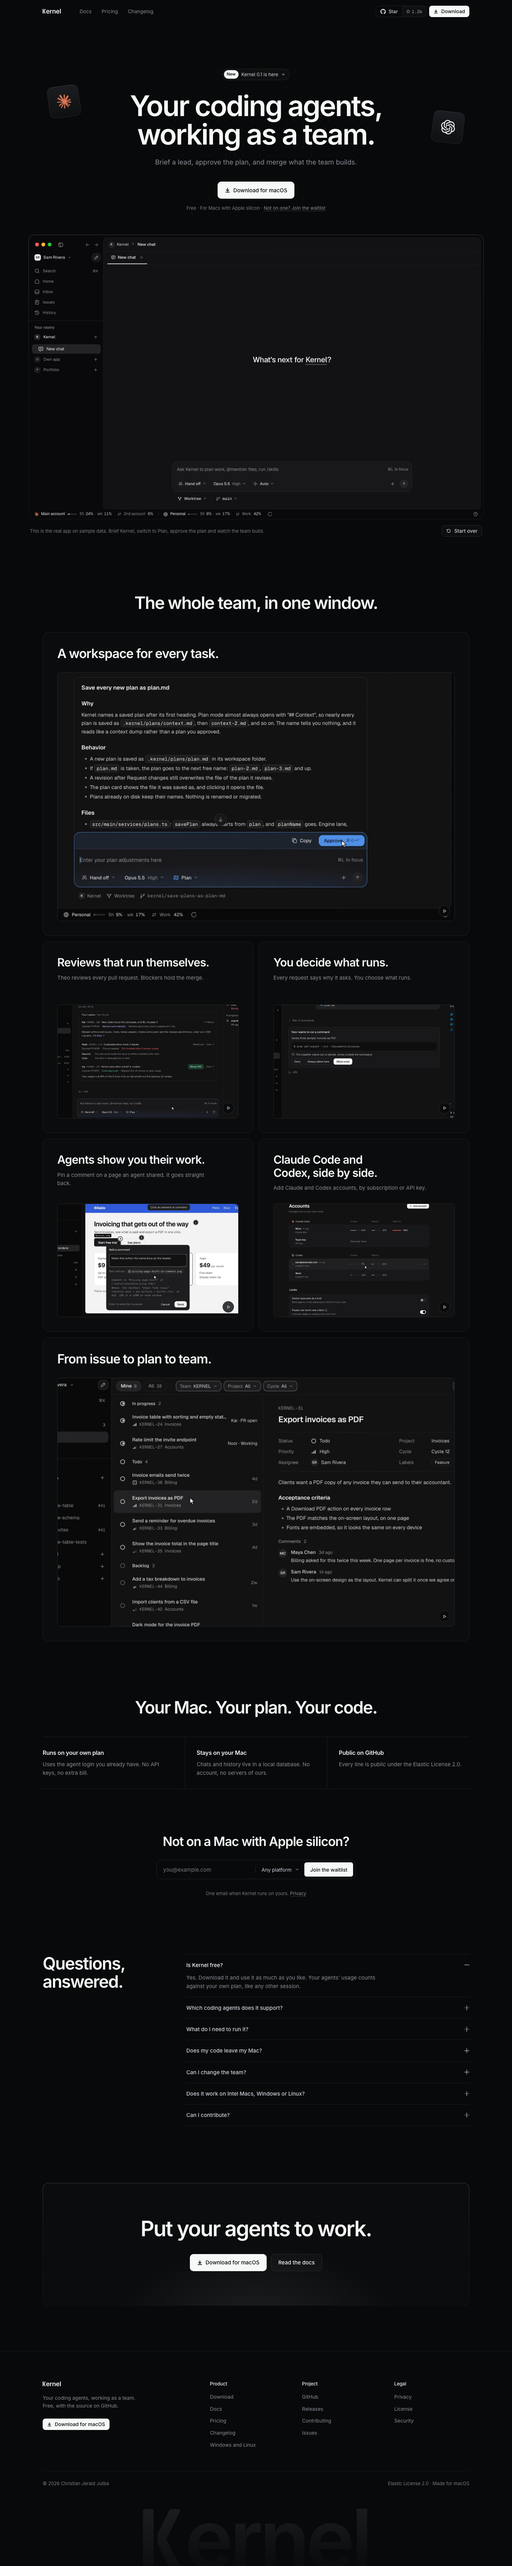
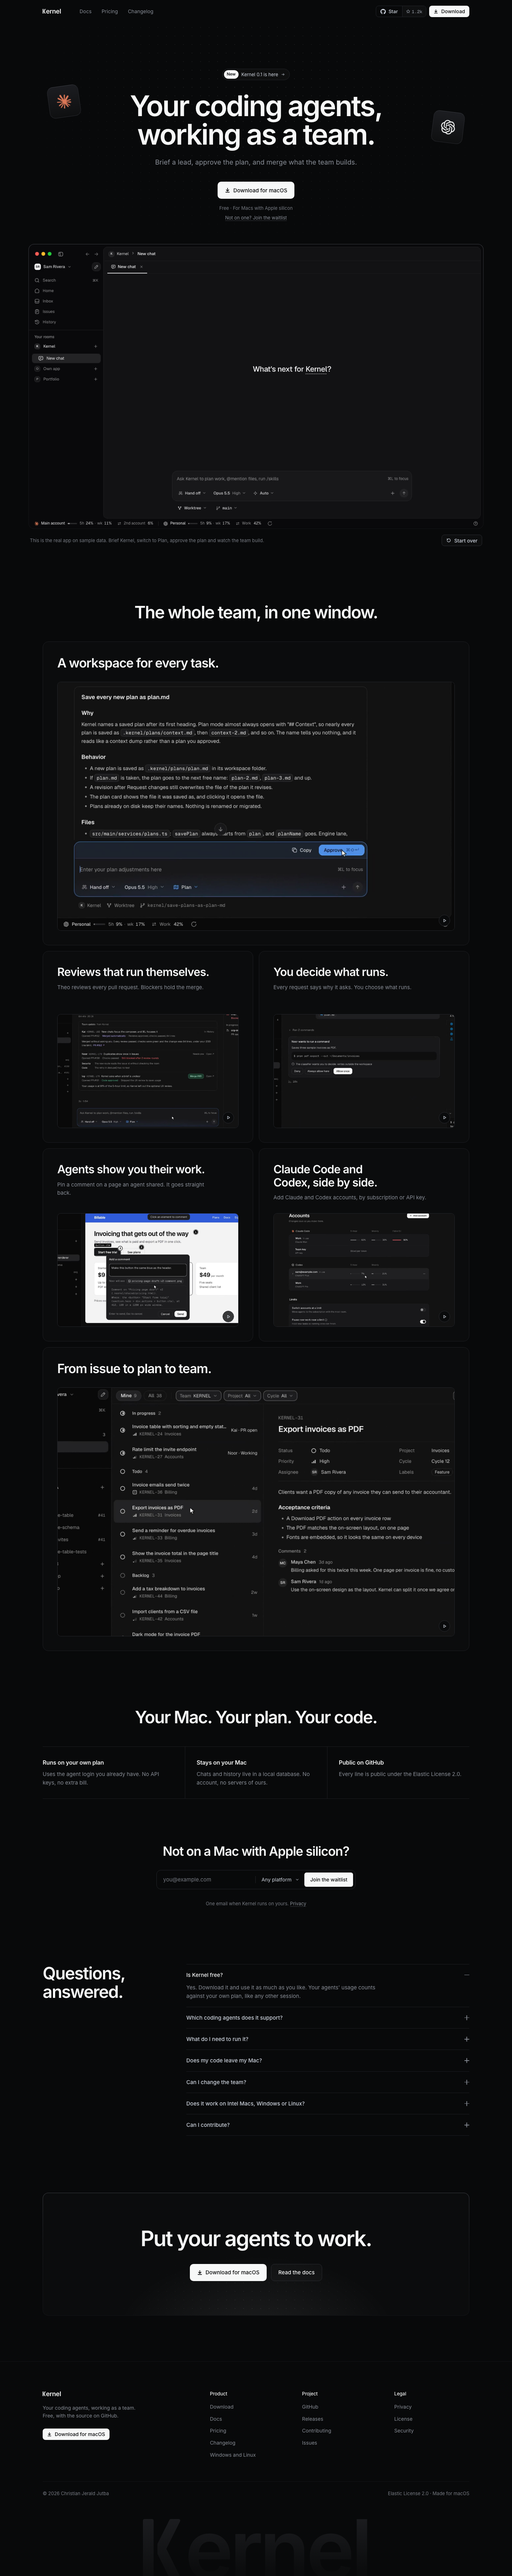
feat(site): a cleaner Pricing page, and the hero waitlist link on its own line
Pricing:
- The lead is one line: no subscription, no paywall, no account.
- The plan card puts the price beside Download and Install guide, with the six included items in two columns below a hairline.
- What you pay for is a three-row table: Kernel at $0, your Claude or ChatGPT plan, and API keys per token.
- Questions use the landing page's accordion, one answer open at a time without a script, with the docs and license linked inside the answers.

Landing: the waitlist link sits on its own line under "Free · For Macs with Apple silicon" on every screen size.

diff --git a/site/app/pricing/page.tsx b/site/app/pricing/page.tsx
@@ -1,10 +1,11 @@
 import Link from 'next/link'
+import type { ReactNode } from 'react'
 import type { Metadata } from 'next'
 import { Waitlist } from '@/components/landing/Waitlist'
 import { SiteFooter } from '@/components/layout/SiteFooter'
 import { SiteNav } from '@/components/layout/SiteNav'
 import { Button } from '@/components/ui/Button'
-import { ArrowIcon, CheckIcon, DownloadIcon } from '@/components/ui/icons'
+import { CheckIcon, DownloadIcon } from '@/components/ui/icons'
 import { DOWNLOAD_URL, LICENSE_URL } from '@/lib/links'
 import { pageMetadata } from '@/lib/site'
 
@@ -14,30 +15,50 @@ const description = 'Kernel is free for now: no subscription, no paywall and no 
 export const metadata: Metadata = pageMetadata({ title, description, path: '/pricing' })
 
 const INCLUDED = [
-  'Every feature, from the first launch',
-  'As many rooms and workspaces as you like',
-  'Claude Code and Codex agents, with several accounts each',
+  'Every feature from the first launch',
+  'Unlimited rooms and workspaces',
+  'Claude Code and Codex, several accounts each',
   'Plans, reviews and merges',
-  'Issues from Linear, GitHub Issues and Jira',
-  'Updates as they ship'
+  'Issues from Linear, GitHub and Jira',
+  'Every update as it ships'
 ]
 
+/** What a team pays, and to whom. Kernel's own line is the one that says $0. */
 const COSTS = [
-  { title: 'Your agent plan', text: "Agents run on your Claude or ChatGPT plan. Their usage counts against it, like any other session." },
-  { title: 'API keys, if you add them', text: 'An Anthropic or OpenAI key bills per token, by that provider, not by Kernel.' },
-  { title: 'Kernel itself', text: 'Nothing. There is no Kernel account, subscription or paywall.' }
+  { item: 'Kernel', note: 'No account, subscription or paywall.', cost: '$0' },
+  { item: 'Your Claude or ChatGPT plan', note: "Agents' usage counts against it, like any other session.", cost: 'What you pay today' },
+  { item: 'API keys, if you add them', note: 'Billed by Anthropic or OpenAI, not by Kernel.', cost: 'Per token' }
 ]
 
-const QUESTIONS = [
-  {
-    q: 'Will Kernel stay free?',
-    a: 'It is free for now, and there is no paid plan today. If that ever changes, the changelog will say so first.'
-  },
+const link = 'text-ink underline decoration-rule underline-offset-3 hover:text-white'
+
+const QUESTIONS: { q: string; a: ReactNode }[] = [
+  { q: 'Will Kernel stay free?', a: 'It is free for now, and there is no paid plan today. If that ever changes, the changelog will say so first.' },
   { q: 'Is there a trial or a limit?', a: 'No. Every feature works from the first launch, on as many repos as you like.' },
-  { q: 'Do I need an account?', a: 'No Kernel account. You sign in to Claude Code or Codex, as you would without Kernel.' },
+  {
+    q: 'Do I need an account?',
+    a: (
+      <>
+        No Kernel account. You sign in to Claude Code or Codex, as you would without Kernel. More in{' '}
+        <Link href="/docs/accounts" className={link}>
+          Accounts
+        </Link>
+        .
+      </>
+    )
+  },
   {
     q: 'Can I use it for work?',
-    a: "Yes. The Elastic License 2.0 lets you use Kernel for personal and commercial work. It doesn't let you sell Kernel to others as a hosted service."
+    a: (
+      <>
+        Yes. The{' '}
+        <a href={LICENSE_URL} target="_blank" rel="noopener" className={link}>
+          Elastic License 2.0
+        </a>{' '}
+        lets you use Kernel for personal and commercial work. It doesn&apos;t let you sell Kernel to others as a hosted
+        service.
+      </>
+    )
   }
 ]
 
@@ -52,23 +73,23 @@ export default function PricingPage() {
             <h1 id="pricing-title" className="text-display-sm text-balance">
               Free for now.
             </h1>
-            <p className="mx-auto mt-6 max-w-150 text-hero-lead text-balance text-muted">
-              No subscription, no paywall and no account. Your agents run on the Claude or ChatGPT plan you already have.
-            </p>
+            <p className="mx-auto mt-5 max-w-150 text-hero-lead text-balance text-muted">No subscription, no paywall, no account.</p>
           </div>
         </section>
 
-        <section aria-label="The plan" className="mx-auto mt-16 max-w-250 px-6">
+        <section aria-label="The plan" className="mx-auto mt-14 max-w-250 px-6">
           <div className="frame-gradient">
-            <div className="grid grid-cta gap-x-14 gap-y-10 rounded-frame-in bg-surface-1 p-12 max-nav:p-7">
-              <div>
-                <p className="text-item text-ink">Kernel</p>
-                <p className="mt-6 flex items-baseline gap-2">
-                  <span className="text-display-sm">$0</span>
-                  <span className="text-body text-muted">free for now</span>
-                </p>
-                <p className="mt-4 text-body text-muted">For Macs with Apple silicon, on macOS 13 or later.</p>
-                <div className="mt-8 flex flex-wrap gap-3">
+            <div className="rounded-frame-in bg-surface-1">
+              <div className="flex items-end justify-between gap-x-10 gap-y-8 p-10 max-nav:flex-col max-nav:items-start max-nav:p-7">
+                <div>
+                  <p className="text-item text-ink">Kernel</p>
+                  <p className="mt-5 flex items-baseline gap-2.5">
+                    <span className="text-display-sm">$0</span>
+                    <span className="text-body text-muted">free for now</span>
+                  </p>
+                  <p className="mt-3 text-small text-faint">For Macs with Apple silicon, on macOS 13 or later.</p>
+                </div>
+                <div className="flex flex-wrap gap-3">
                   <Button href={DOWNLOAD_URL} size="lg" icon={<DownloadIcon />}>
                     Download for macOS
                   </Button>
@@ -77,9 +98,9 @@ export default function PricingPage() {
                   </Button>
                 </div>
               </div>
-              <div>
+              <div className="border-t border-line p-10 max-nav:p-7">
                 <p className="text-small font-medium text-ink-2">Everything included</p>
-                <ul className="mt-4 flex flex-col gap-3">
+                <ul className="mt-5 grid grid-cols-2 gap-x-10 gap-y-3.5 max-nav:grid-cols-1">
                   {INCLUDED.map((item) => (
                     <li key={item} className="flex items-start gap-3 text-body text-ink-2">
                       <CheckIcon size={14} className="mt-1 shrink-0 text-muted" />
@@ -96,41 +117,38 @@ export default function PricingPage() {
           <h2 id="costs-title" className="text-h3">
             What you pay for
           </h2>
-          <div className="mt-8 grid grid-cols-3 border-y border-line max-faq:grid-cols-1">
+          <dl className="mt-8 border-t border-line">
             {COSTS.map((c) => (
-              <div key={c.title} className="p-7 not-first:border-l not-first:border-line first:pl-0 last:pr-0 max-faq:px-0 max-faq:py-6 max-faq:not-first:border-t max-faq:not-first:border-l-0">
-                <h3 className="text-item">{c.title}</h3>
-                <p className="mt-2 text-body leading-relaxed text-muted">{c.text}</p>
+              <div key={c.item} className="flex items-baseline justify-between gap-8 border-b border-line py-5 max-nav:flex-col max-nav:gap-1.5">
+                <div>
+                  <dt className="text-item text-ink">{c.item}</dt>
+                  <dd className="mt-1 text-body text-muted">{c.note}</dd>
+                </div>
+                <dd className="shrink-0 text-body font-medium text-ink-2">{c.cost}</dd>
               </div>
+            ))}
+          </dl>
+        </section>
+
+        <section aria-labelledby="pricing-faq-title" className="mx-auto grid max-w-250 grid-faq items-start gap-16 px-6 pt-28 max-faq:grid-cols-1 max-faq:gap-8">
+          <h2 id="pricing-faq-title" className="text-h3">
+            Questions
+          </h2>
+          {/* One answer open at a time, with no script: details that share a name close each other. */}
+          <div>
+            {QUESTIONS.map((x, i) => (
+              <details key={x.q} name="pricing-faq" open={i === 0} className="group border-t border-line last:border-b">
+                <summary className="flex cursor-pointer items-center justify-between gap-6 py-4.5 text-body font-medium text-ink-2 transition-colors group-open:text-ink hover:text-ink">
+                  {x.q}
+                  <span aria-hidden="true" className="faq-plus" />
+                </summary>
+                <p className="-mt-1.5 max-w-155 pr-12 pb-4.5 text-body leading-relaxed text-muted">{x.a}</p>
+              </details>
             ))}
           </div>
         </section>
 
-        <section aria-labelledby="pricing-faq-title" className="mx-auto max-w-250 px-6 pt-28">
-          <h2 id="pricing-faq-title" className="text-h3">
-            Questions
-          </h2>
-          <dl className="mt-8 grid grid-cols-2 gap-x-14 gap-y-10 max-faq:grid-cols-1">
-            {QUESTIONS.map((x) => (
-              <div key={x.q}>
-                <dt className="text-item text-ink">{x.q}</dt>
-                <dd className="mt-2 text-body leading-relaxed text-muted">{x.a}</dd>
-              </div>
-            ))}
-          </dl>
-          <p className="mt-12 flex flex-wrap gap-x-6 gap-y-2 text-ui">
-            <Link href="/docs/accounts" className="inline-flex items-center gap-1.5 font-medium text-muted transition-colors hover:text-ink">
-              Accounts and usage in the docs
-              <ArrowIcon />
-            </Link>
-            <a href={LICENSE_URL} target="_blank" rel="noopener" className="inline-flex items-center gap-1.5 font-medium text-muted transition-colors hover:text-ink">
-              Read the license
-              <ArrowIcon />
-            </a>
-          </p>
-        </section>
-
-        <Waitlist className="pt-28 pb-32" />
+        <Waitlist className="pt-32 pb-32" />
       </main>
       <SiteFooter />
     </>

diff --git a/site/components/landing/Hero.tsx b/site/components/landing/Hero.tsx
@@ -39,9 +39,7 @@ export function Hero({ version }: { version: string }) {
         </div>
         <p className="mt-4 text-small text-faint">
           Free · For Macs with Apple silicon
-          <span className="max-nav:hidden"> · </span>
-          {/* On phones the link takes its own line rather than breaking in the middle. */}
-          <span className="max-nav:mt-1.5 max-nav:block">
+          <span className="mt-1.5 block">
             <a href="#waitlist" className="text-muted underline decoration-rule underline-offset-3 transition-colors hover:text-ink">
               Not on one? Join the waitlist
             </a>
